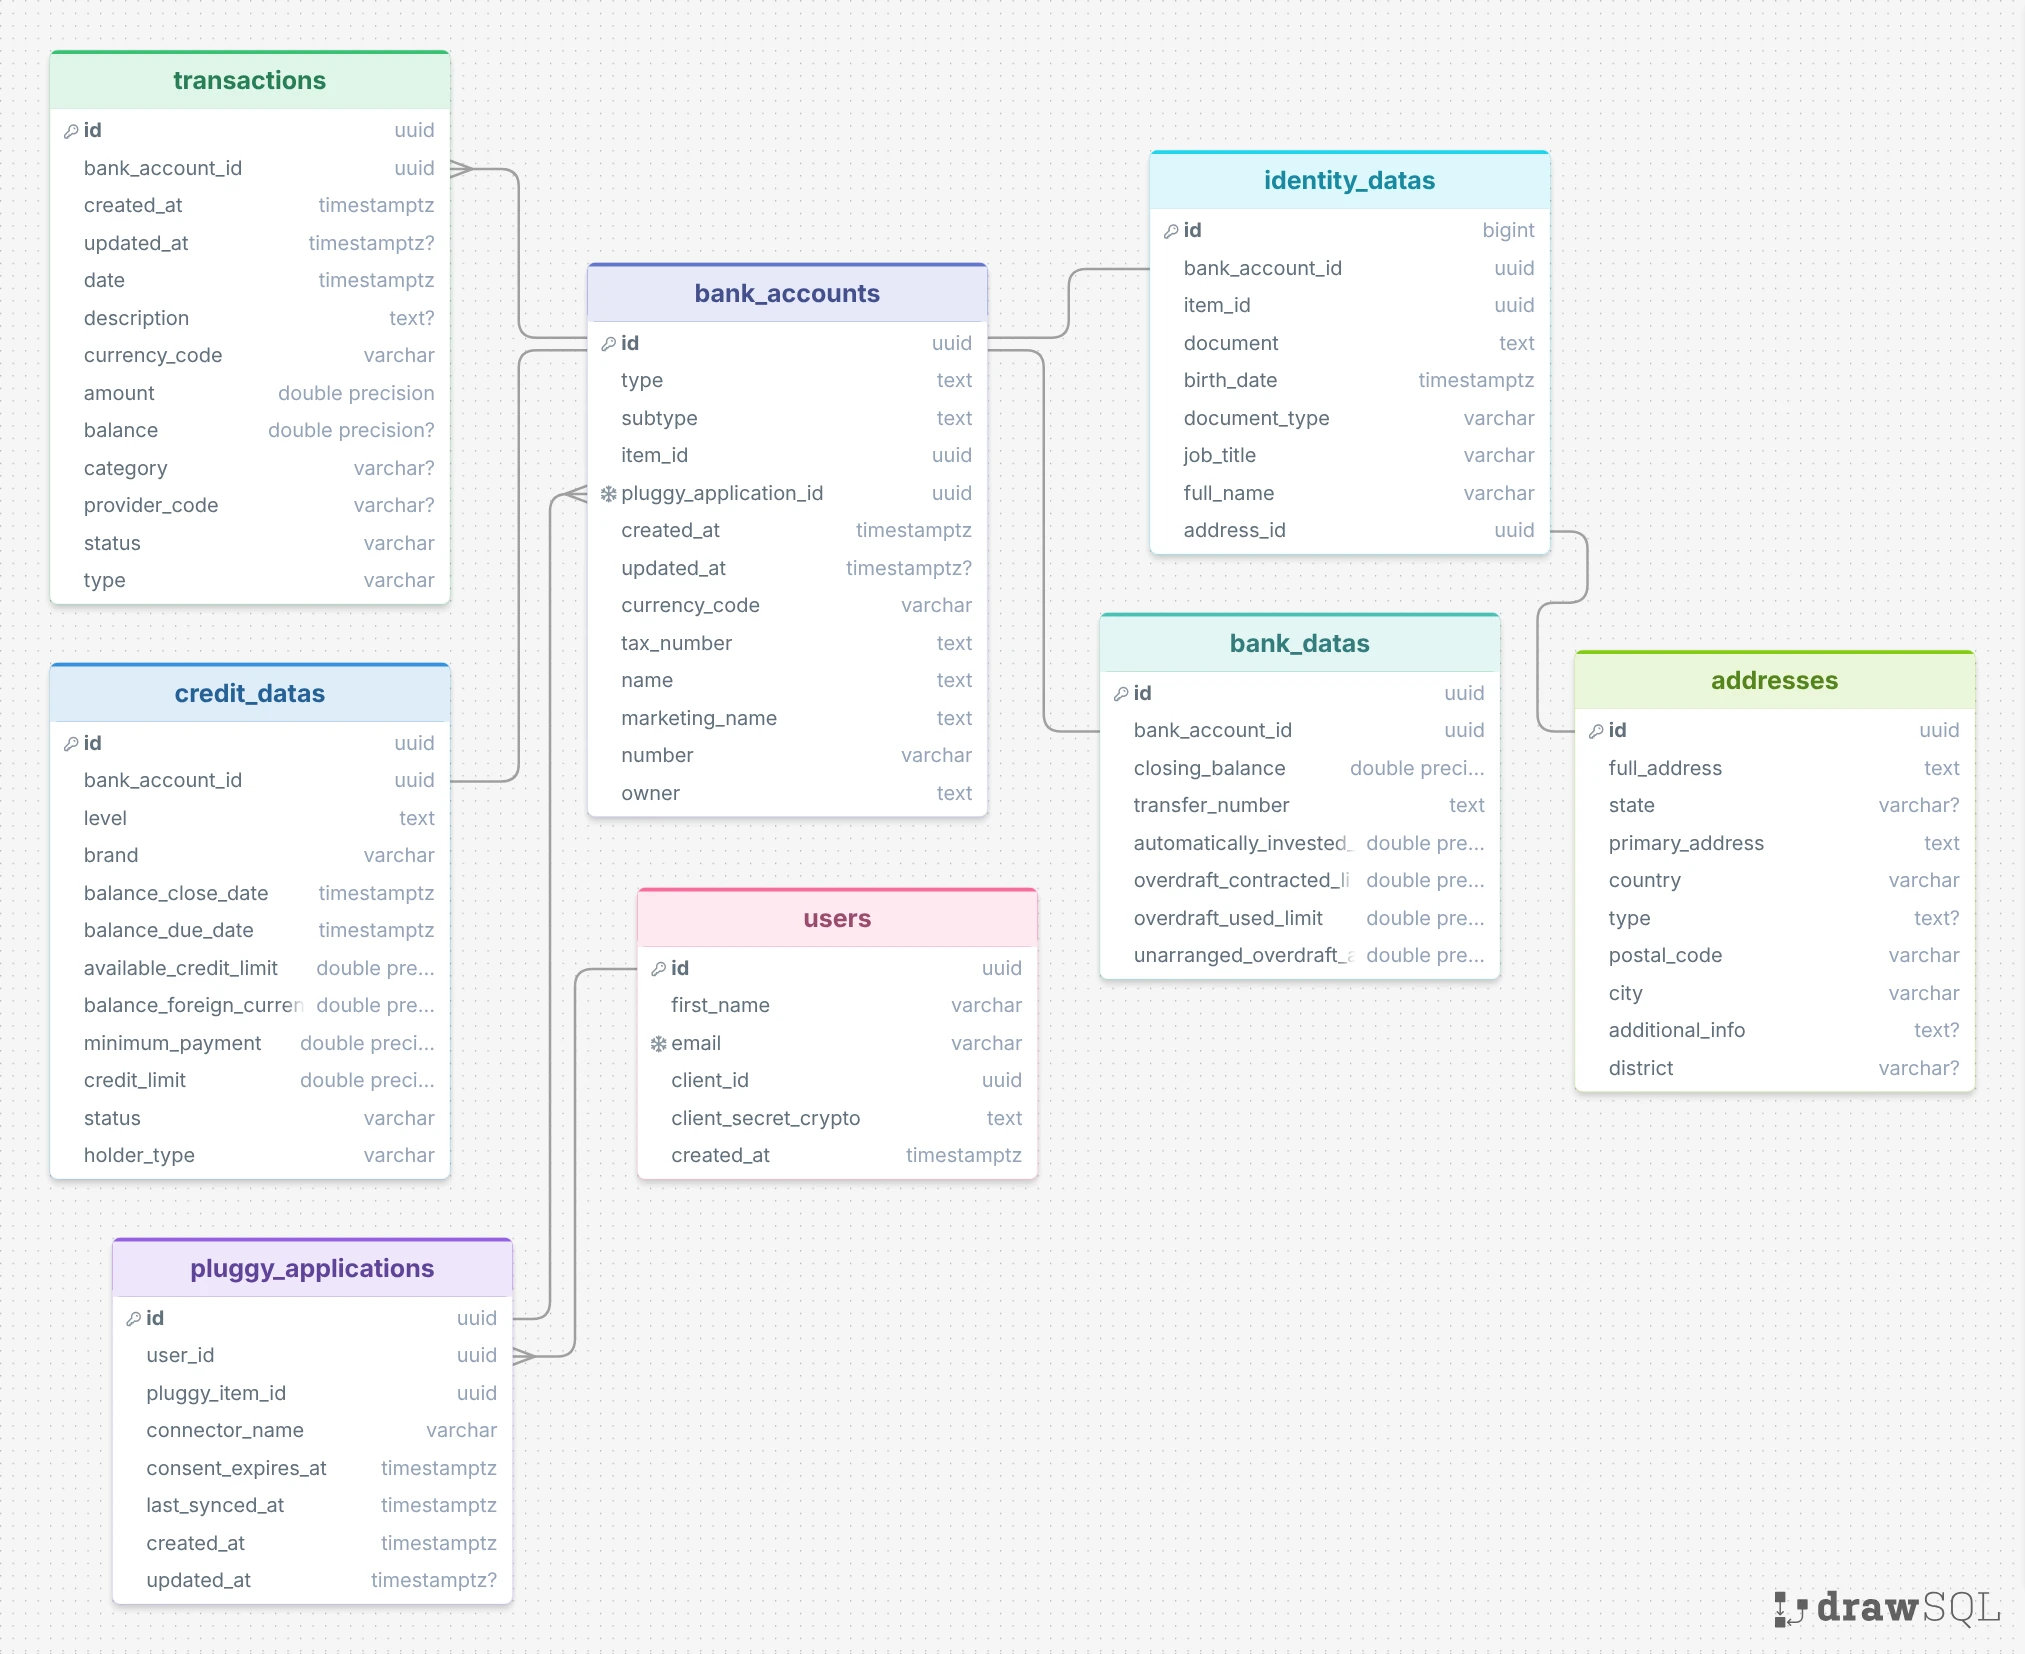
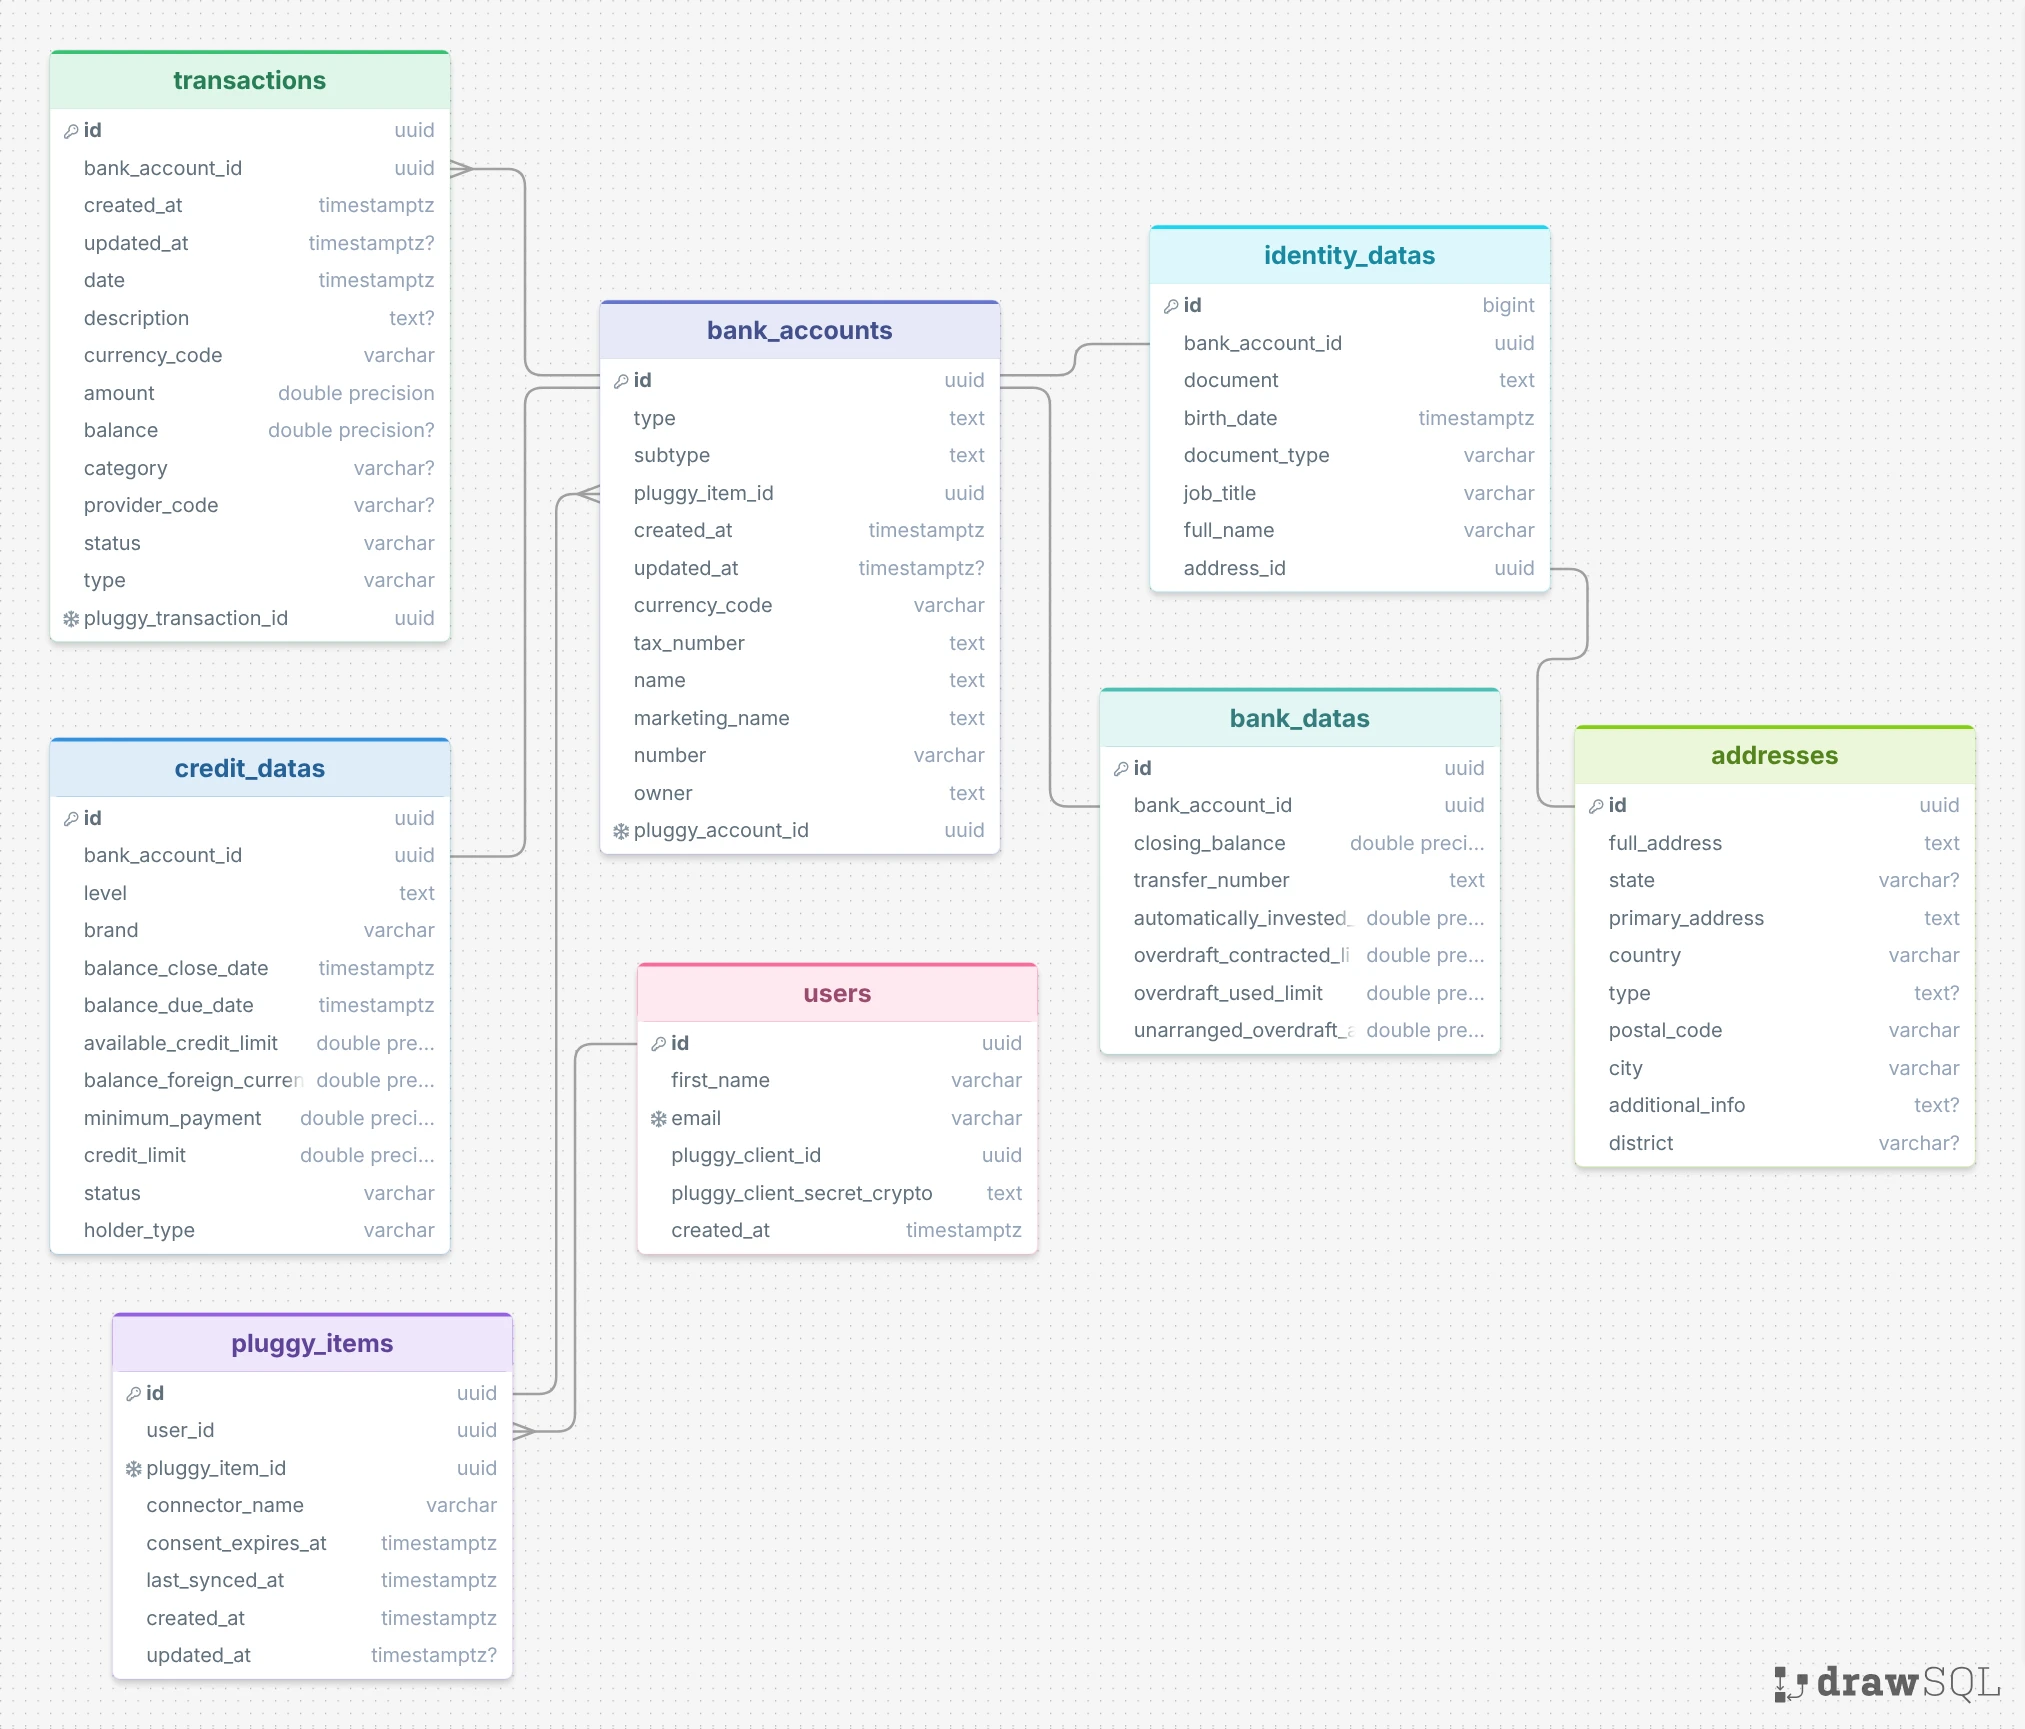
Working at database structure

diff --git a/CLAUDE.md b/CLAUDE.md
@@ -24,14 +24,15 @@ Pluggy code lives in `backend/integrations/pluggy/` (`http_clients/`, `schemas/`
 
 ## 3. Database schema
 
-The schema is designed in DrawSQL and exported to `backend/`:
+The project is **database first**. The source of truth is the versioned SQL scripts in `backend/sql_scripts/`, numbered in order (`001_init.sql`, `002_...sql`). The SQLAlchemy models are generated from the database (with `sqlacodegen`), never written by hand.
 
-- `backend/finance-app-schema.md`: **source of truth for the agent.** Read this file before writing models, migrations, or queries, or answering questions about tables and columns.
-- `backend/finance-app-schema.webp`: image of the same diagram, for humans. Do not use it instead of the `.md`.
+- `backend/sql_scripts/`: **source of truth.** Read the scripts, in order, before writing queries or code that touches tables, or answering questions about tables and columns. A change to the schema is a new script. Do not edit a script that was already applied.
+- Generated models: do not edit them by hand, they are overwritten on each generation. Extra logic goes in separate modules.
+- `backend/finance-app-schema.md` and `backend/finance-app-schema.webp`: export of the DrawSQL diagram. **Only a sketch for humans.** It can be outdated or differ from the scripts. Do not use them as the reference for the real schema.
 
 Rules:
-1. If the code and the `.md` disagree, tell me which one looks right. Do not silently pick one.
-2. When you suggest schema changes, follow the patch format described at the bottom of `finance-app-schema.md`, so I can apply them in DrawSQL. After I update the diagram, I re-export the `.md`.
+1. If the code, the DrawSQL export and the scripts disagree, the scripts win. Tell me about the difference, and do not silently pick one.
+2. When you suggest schema changes, write them as a new SQL script in `backend/sql_scripts/`. Do not produce a DrawSQL patch unless I ask for one.
 3. Money columns use `numeric`, never `float`/`double precision`. In Python, use `Decimal`.
 
 ## 4. Pluggy documentation access (MCP): use it first

diff --git a/backend/finance-app-schema.md b/backend/finance-app-schema.md
@@ -7,14 +7,14 @@ Columns are NOT NULL unless marked nullable.
 id: uuid PK
 first_name: varchar
 email: varchar unique
-client_id: uuid
-client_secret_crypto: text
+pluggy_client_id: uuid
+pluggy_client_secret_crypto: text
 created_at: timestamptz
 
-## pluggy_applications
+## pluggy_items
 id: uuid PK
 user_id: uuid FK
-pluggy_item_id: uuid
+pluggy_item_id: uuid unique
 connector_name: varchar
 consent_expires_at: timestamptz
 last_synced_at: timestamptz
@@ -25,8 +25,7 @@ updated_at: timestamptz nullable
 id: uuid PK
 type: text
 subtype: text
-item_id: uuid
-pluggy_application_id: uuid FK unique
+pluggy_item_id: uuid FK
 created_at: timestamptz
 updated_at: timestamptz nullable
 currency_code: varchar
@@ -35,6 +34,7 @@ name: text
 marketing_name: text
 number: varchar
 owner: text
+pluggy_account_id: uuid unique
 
 ## credit_datas
 id: uuid PK
@@ -63,7 +63,6 @@ unarranged_overdraft_amount: double precision
 ## identity_datas
 id: bigint PK
 bank_account_id: uuid FK
-item_id: uuid
 document: text
 birth_date: timestamptz
 document_type: varchar
@@ -97,10 +96,11 @@ category: varchar nullable
 provider_code: varchar nullable
 status: varchar
 type: varchar
+pluggy_transaction_id: uuid unique
 
 ## Relationships
-pluggy_applications.user_id → users.id (many-to-one)
-bank_accounts.pluggy_application_id → pluggy_applications.id (many-to-one)
+pluggy_items.user_id → users.id (many-to-one)
+bank_accounts.pluggy_item_id → pluggy_items.id (many-to-one)
 credit_datas.bank_account_id → bank_accounts.id (one-to-one)
 bank_datas.bank_account_id → bank_accounts.id (one-to-one)
 identity_datas.bank_account_id → bank_accounts.id (one-to-one)
